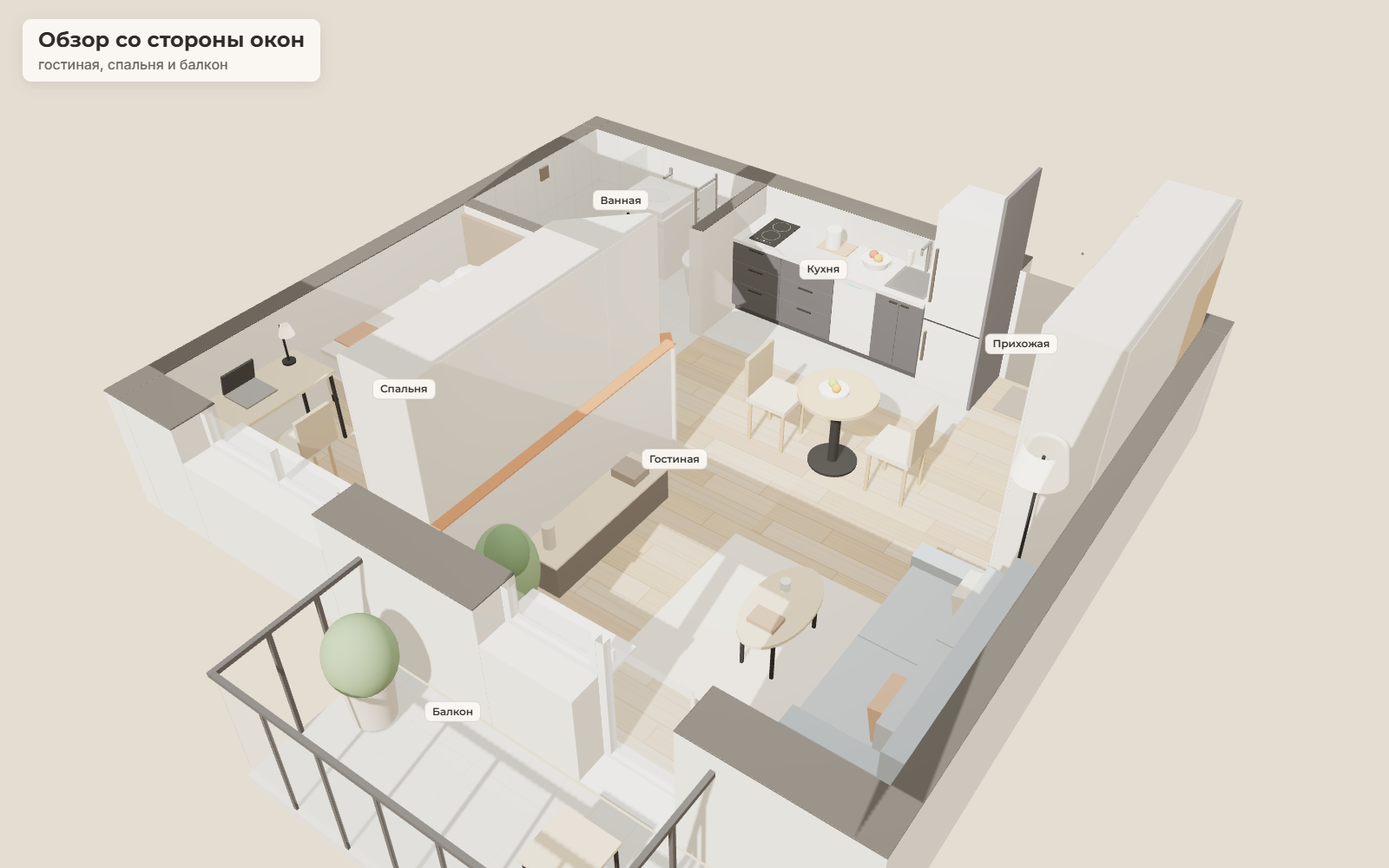
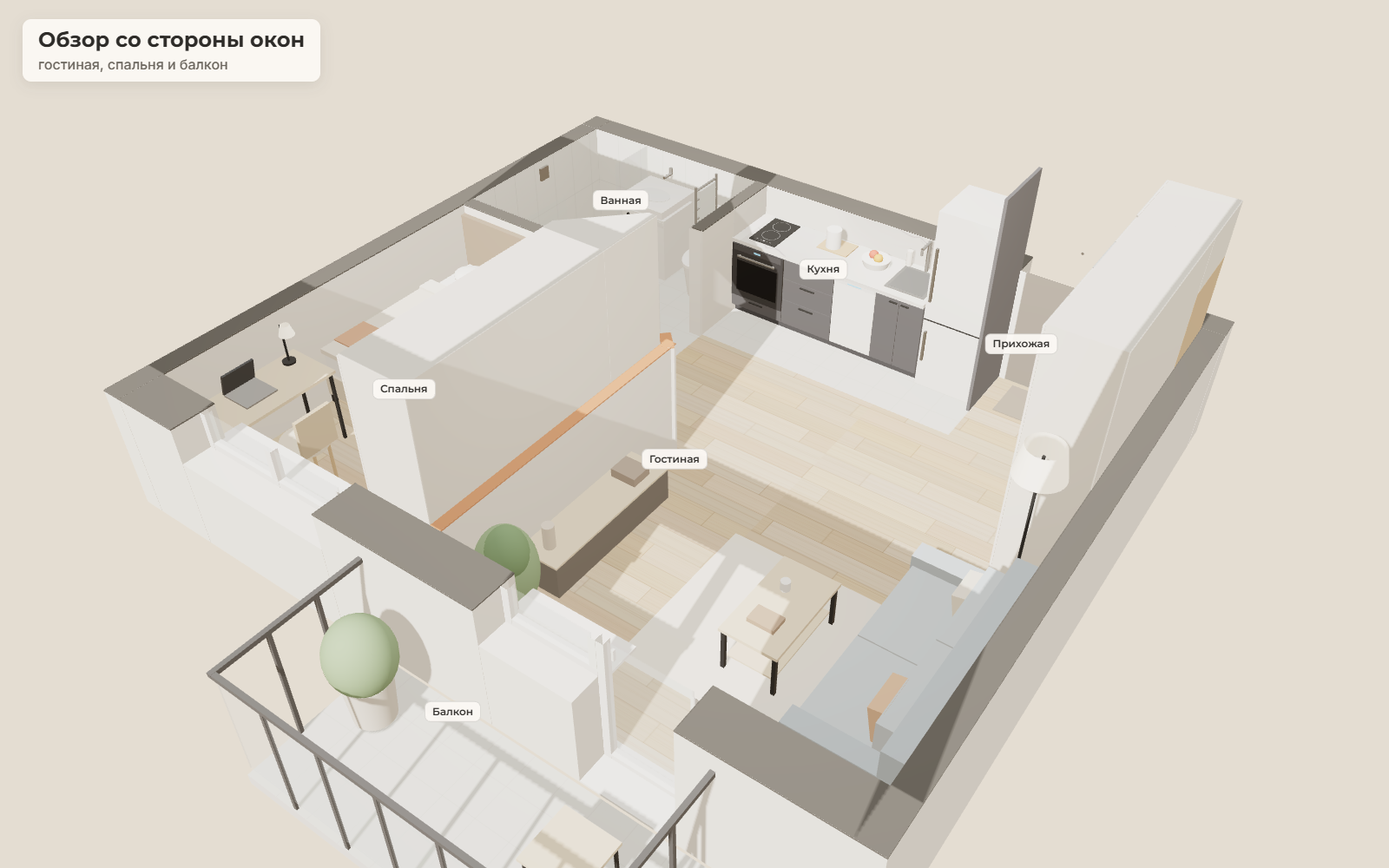
Духовка под плитой, выключатели, без обеденного стола
- Под индукцией духовой шкаф с функцией СВЧ в тумбе 60 см; розетка К7 на своей линии, вывод К3 в соседней тумбе
- Обеденный стол, стулья и светильник над ними убраны
- Журнальный столик прямоугольный, 50×90
- Розетки у кровати без USB
- Выключатели Вк1–Вк5 на плане и на развёртках, две новые развёртки: у входной двери и стена ванной со стороны кухни
- Скриншоты, плитки меню и README обновлены

diff --git a/3d.html b/3d.html
@@ -292,8 +292,10 @@ box(0.2,0.37,0.5,0.86,0.57,1.385,mat.sofa);box(0.2,0.37,0.5,0.86,1.395,2.21,mat.
 {const p1=box(0.33,0.45,0.53,0.85,0.66,1.0,M('#c98a62',0.95));p1.rotation.z=-0.18;const p2=box(0.33,0.45,0.53,0.83,1.85,2.15,M('#e3d6c0',0.95));p2.rotation.z=-0.18;}
 block(0,0.95,0.39,2.39);
 plane(1.083,2.483,0.592,2.192,0.004,mat.rug);
-cyl(1.558,0.415,1.392,0.25,0.03,mat.woodL,{sz:1.8});
-[[-0.13,-0.3],[0.13,-0.3],[-0.13,0.3],[0.13,0.3]].forEach(([dx,dz])=>cyl(1.558+dx,0.2,1.392+dz,0.016,0.4,mat.black,{seg:12}));
+// coffee table: rectangular 50x90, wood top, thin black legs, a low shelf
+box(1.308,1.808,0.40,0.43,0.947,1.837,mat.woodL);
+[[1.325,0.964],[1.761,0.964],[1.325,1.79],[1.761,1.79]].forEach(([x,z])=>box(x,x+0.032,0,0.40,z,z+0.032,mat.black));
+box(1.357,1.761,0.12,0.135,0.996,1.79,mat.woodL);
 box(1.45,1.68,0.43,0.47,1.12,1.28,M('#8c6b52',0.8));cyl(1.62,0.47,1.55,0.04,0.09,mat.ceramic);
 block(1.31,1.81,0.95,1.84);
 box(3.1,3.48,0.15,0.45,0.692,2.092,mat.tvStand,{block:true});box(3.1,3.48,0.45,0.47,0.692,2.092,mat.woodL);
@@ -304,15 +306,7 @@ blockCircle(3.2,0.3,0.2);
 cyl(0.3,0.01,2.68,0.15,0.02,mat.black);cyl(0.3,0.8,2.68,0.012,1.58,mat.black,{seg:12});cyl(0.3,1.55,2.68,0.2,0.26,mat.shade,{rt:0.15,open:true});
 blockCircle(0.3,2.68,0.16);
 
-// ---------- dining (round table Ø70 for two next to the kitchen)
-cyl(2.3,0.75,3.45,0.35,0.03,mat.wood);cyl(2.3,0.37,3.45,0.045,0.72,mat.black);cyl(2.3,0.012,3.45,0.22,0.024,mat.black);
-blockCircle(2.3,3.45,0.35);
-function chair(cx,cz,dir){box(cx-0.2,cx+0.2,0.43,0.48,cz-0.2,cz+0.2,mat.seat);
-  [[-0.17,-0.17],[0.17,-0.17],[-0.17,0.17],[0.17,0.17]].forEach(([dx,dz])=>cyl(cx+dx,0.215,cz+dz,0.017,0.43,mat.oak,{seg:12}));
-  box(cx+dir*0.2-0.02,cx+dir*0.2+0.02,0.48,0.88,cz-0.2,cz+0.2,mat.back);block(cx-0.2,cx+0.2,cz-0.2,cz+0.2);}
-chair(1.7,3.45,-1);chair(2.9,3.45,1);
-cyl(2.33,0.8,3.42,0.13,0.025,mat.ceramic);sph(2.3,0.84,3.4,0.04,0.04,0.04,M('#d9822b',0.6));sph(2.36,0.84,3.45,0.04,0.04,0.04,M('#9bb03a',0.6));
-cyl(2.3,2.17,3.45,0.004,1.06,mat.black,{p:groups.ceil,seg:6});cyl(2.3,1.58,3.45,0.2,0.2,mat.shade,{rt:0.05,open:true,p:groups.ceil});
+// dining table, chairs and pendant left out for now: the zone between the living room and the kitchen stays free
 
 // ---------- kitchen: panel, fridge, sink, dishwasher, induction hob near the bath wall
 box(1.62,1.65,0,2.2,4.8,5.5,mat.panel,{block:true});
@@ -331,7 +325,13 @@ const front=(x1,x2,y1,y2,m=mat.graph)=>box(x1+0.002,x2-0.002,y1+0.002,y2-0.002,4
 const hZ=(xc,y,l=0.16)=>box(xc-l/2,xc+l/2,y-0.006,y+0.006,4.885,4.902,mat.black);
 front(2.25,2.5,0.1,0.85);front(2.5,2.75,0.1,0.85);hZ(2.44,0.8,0.08);hZ(2.56,0.8,0.08);
 front(2.75,3.2,0.1,0.85,mat.appl);box(2.76,3.19,0.8,0.84,4.898,4.903,M('#d9d9d6',0.4));box(2.9,3.05,0.815,0.825,4.895,4.899,M('#3a8fd0',0.4,0,{emissive:'#2a6fb0',emissiveIntensity:0.6}));
-[[0.1,0.38],[0.38,0.62],[0.62,0.85]].forEach(([a,b])=>{front(3.2,3.8,a,b);hZ(3.5,b-0.035);front(3.8,4.365,a,b);hZ(4.08,b-0.035);});
+[[0.1,0.38],[0.38,0.62],[0.62,0.85]].forEach(([a,b])=>{front(3.2,3.765,a,b);hZ(3.4825,b-0.035);});
+// built-in oven with a microwave mode under the hob, 60 cm, a low drawer below it
+front(3.765,4.365,0.1,0.232);hZ(4.065,0.2);
+{const ov=M('#1f1f21',0.22,0.35),gl=M('#0b0b0c',0.08,0.5);
+ box(3.767,4.363,0.234,0.83,4.89,4.92,ov);box(3.83,4.3,0.31,0.66,4.887,4.89,gl);
+ box(3.79,4.34,0.765,0.825,4.887,4.89,M('#2b2b2e',0.3,0.3));box(4.025,4.105,0.785,0.805,4.885,4.887,M('#3a8fd0',0.4,0,{emissive:'#2a6fb0',emissiveIntensity:0.6}));
+ box(3.85,4.28,0.71,0.726,4.858,4.872,mat.steel);[3.87,4.26].forEach(x=>box(x-0.008,x+0.008,0.712,0.724,4.872,4.89,mat.steel));}
 box(2.25,4.365,0.85,0.888,4.88,5.5,mat.ctop);
 box(2.3,2.71,0.888,0.892,4.97,5.41,mat.steel);box(2.33,2.68,0.8925,0.8935,5.0,5.38,M('#8f9498',0.35,0.7));
 cyl(2.505,1.05,5.43,0.017,0.32,mat.chrome);cyl(2.505,1.2,5.35,0.014,0.16,mat.chrome,{rx:Math.PI/2});cyl(2.505,1.17,5.27,0.013,0.06,mat.chrome);
@@ -442,7 +442,7 @@ S.add(new THREE.HemisphereLight('#ffffff','#cdbda6',0.3));
 const sun=new THREE.DirectionalLight('#fff3e2',1.15);sun.position.set(2.0,7.5,-5.6);sun.target.position.set(3.3,0,2.4);S.add(sun,sun.target);
 sun.castShadow=true;sun.shadow.mapSize.set(coarse?1024:2048,coarse?1024:2048);
 Object.assign(sun.shadow.camera,{left:-6.5,right:6.5,top:6.5,bottom:-6.5,near:1,far:24});sun.shadow.bias=-0.0004;sun.shadow.normalBias=0.025;
-[[1.75,2.4,1.4,0.32,6],[2.3,1.42,3.45,0.4,3],[3.1,2.3,4.85,0.3,4],[1.0,2.3,4.3,0.25,4],[5.3,2.4,1.8,0.3,6],[5.3,2.3,4.5,0.38,4],[4.78,0.85,3.24,0.18,1.6],[2.95,1.38,5.3,0.2,1.4]]
+[[1.75,2.4,1.4,0.32,6],[3.1,2.3,4.85,0.3,4],[1.0,2.3,4.3,0.25,4],[5.3,2.4,1.8,0.3,6],[5.3,2.3,4.5,0.38,4],[4.78,0.85,3.24,0.18,1.6],[2.95,1.38,5.3,0.2,1.4]]
   .forEach(([x,y,z,i,d])=>{const l=new THREE.PointLight('#ffe9cc',i,d,2);l.position.set(x,y,z);S.add(l);});
 
 // ---------- views
@@ -450,18 +450,17 @@ const VIEWS={
   'obzor':{name:'Обзор сверху',sub:'потолок снят, вид с юго-востока',mode:'over',o:{tx:3.3,tz:2.45,theta:0.6,phi:0.88,dist:10.4}},
   'obzor-okna':{name:'Обзор со стороны окон',sub:'гостиная, спальня и балкон',mode:'over',o:{tx:3.3,tz:2.75,theta:Math.PI+0.62,phi:0.88,dist:10.4}},
   'sverhu':{name:'Сверху, как на плане',sub:'',mode:'over',o:{tx:3.29,tz:2.35,theta:0,phi:0.02,dist:13.2}},
-  'vhod':{name:'От входной двери',sub:'прихожая, гостиная и обеденная зона',mode:'walk',p:[1.1,5.12],t:[2.4,1.15,2.3]},
+  'vhod':{name:'От входной двери',sub:'прихожая, гостиная и кухня',mode:'walk',p:[1.1,5.12],t:[2.4,1.15,2.3]},
   'prihozhaya':{name:'Прихожая',sub:'ниша у входа: тумба, крючки, антресоль; шкаф на 4 дверки',mode:'walk',p:[1.55,5.3],t:[0.0,1.3,4.85],fov:80},
   'gostinaya':{name:'Гостиная',sub:'диван, журнальный стол, шкаф в прихожей',mode:'walk',p:[2.72,0.5],t:[0.5,1.0,2.7]},
-  'kuhnya':{name:'Кухня из гостиной',sub:'шкафы до потолка, дверцы открываются вверх; индукция под вытяжкой',mode:'walk',p:[1.6,2.75],t:[3.5,1.15,5.25],fov:66,flaps:{u1:0.75}},
-  'kuhnya-sboku':{name:'Кухня сбоку',sub:'от двери ванной: индукция, посудомойка, мойка, холодильник',mode:'walk',p:[4.2,3.75],t:[2.4,0.9,5.25],fov:70},
-  'stol':{name:'Обеденная зона',sub:'круглый стол Ø70 на двоих между гостиной и кухней',mode:'walk',p:[2.35,1.9],t:[2.45,0.7,4.8],fov:66},
+  'kuhnya':{name:'Кухня из гостиной',sub:'шкафы до потолка, дверцы вверх; индукция под вытяжкой, под ней духовка с СВЧ',mode:'walk',p:[1.6,2.75],t:[3.5,1.15,5.25],fov:66,flaps:{u1:0.75}},
+  'kuhnya-sboku':{name:'Кухня сбоку',sub:'от двери ванной: индукция и духовка с СВЧ, посудомойка, мойка, холодильник',mode:'walk',p:[4.2,3.75],t:[2.4,0.9,5.25],fov:70},
   'spalnya':{name:'Спальня',sub:'кровать 160×200, рабочий стол у окна',mode:'walk',p:[4.15,2.95],t:[6.1,0.85,1.2],fov:70},
   'shkaf':{name:'Шкаф в спальне',sub:'у окна заглушка 24 см: крайняя дверь открывается на 90° мимо подоконника',mode:'walk',p:[4.8,2.95],t:[4.5,0.95,0.1],fov:70,flaps:{sd0:1}},
   'polki':{name:'Полки за дверью спальни',sub:'дверь закрыта; открытая дверь встаёт вдоль полок',mode:'walk',p:[4.72,2.78],t:[3.9,1.15,2.35],fov:78,doors:{bed:0}},
   'vannaya':{name:'Ванная',sub:'дверь внутрь к стене, СМ под раковиной, душ 70×193',mode:'walk',p:[4.43,3.97],t:[6.3,0.85,4.75],fov:74},
 };
-const CHIPS=[['vhod','Вход'],['prihozhaya','Прихожая'],['gostinaya','Гостиная'],['kuhnya','Кухня'],['stol','Обеденная зона'],['spalnya','Спальня'],['shkaf','Шкаф у окна'],['polki','Полки за дверью'],['vannaya','Ванная'],['sverhu','Сверху']];
+const CHIPS=[['vhod','Вход'],['prihozhaya','Прихожая'],['gostinaya','Гостиная'],['kuhnya','Кухня'],['spalnya','Спальня'],['shkaf','Шкаф у окна'],['polki','Полки за дверью'],['vannaya','Ванная'],['sverhu','Сверху']];
 const LABELS=[['Гостиная',2.55,1.3,1.45],['Кухня',3.0,1.3,4.3],['Прихожая',1.1,1.3,4.25],['Спальня',4.75,1.3,0.9],['Ванная',5.25,1.3,4.25],['Балкон',2.4,1.1,-1.0]];
 
 const st={mode:'over',cut:true,o:Object.assign({},VIEWS.obzor.o),pos:{x:1.1,z:5.1},yaw:0,pitch:0,keys:{},target:null,current:'obzor'};

diff --git a/plan.html b/plan.html
@@ -283,8 +283,10 @@ box(0.2,0.37,0.5,0.86,0.57,1.385,mat.sofa);box(0.2,0.37,0.5,0.86,1.395,2.21,mat.
 {const p1=box(0.33,0.45,0.53,0.85,0.66,1.0,M('#c98a62',0.95));p1.rotation.z=-0.18;const p2=box(0.33,0.45,0.53,0.83,1.85,2.15,M('#e3d6c0',0.95));p2.rotation.z=-0.18;}
 block(0,0.95,0.39,2.39);
 plane(1.083,2.483,0.592,2.192,0.004,mat.rug);
-cyl(1.558,0.415,1.392,0.25,0.03,mat.woodL,{sz:1.8});
-[[-0.13,-0.3],[0.13,-0.3],[-0.13,0.3],[0.13,0.3]].forEach(([dx,dz])=>cyl(1.558+dx,0.2,1.392+dz,0.016,0.4,mat.black,{seg:12}));
+// coffee table: rectangular 50x90, wood top, thin black legs, a low shelf
+box(1.308,1.808,0.40,0.43,0.947,1.837,mat.woodL);
+[[1.325,0.964],[1.761,0.964],[1.325,1.79],[1.761,1.79]].forEach(([x,z])=>box(x,x+0.032,0,0.40,z,z+0.032,mat.black));
+box(1.357,1.761,0.12,0.135,0.996,1.79,mat.woodL);
 box(1.45,1.68,0.43,0.47,1.12,1.28,M('#8c6b52',0.8));cyl(1.62,0.47,1.55,0.04,0.09,mat.ceramic);
 block(1.31,1.81,0.95,1.84);
 box(3.1,3.48,0.15,0.45,0.692,2.092,mat.tvStand,{block:true});box(3.1,3.48,0.45,0.47,0.692,2.092,mat.woodL);
@@ -295,15 +297,7 @@ blockCircle(3.2,0.3,0.2);
 cyl(0.3,0.01,2.68,0.15,0.02,mat.black);cyl(0.3,0.8,2.68,0.012,1.58,mat.black,{seg:12});cyl(0.3,1.55,2.68,0.2,0.26,mat.shade,{rt:0.15,open:true});
 blockCircle(0.3,2.68,0.16);
 
-// ---------- dining (round table Ø70 for two next to the kitchen)
-cyl(2.3,0.75,3.45,0.35,0.03,mat.wood);cyl(2.3,0.37,3.45,0.045,0.72,mat.black);cyl(2.3,0.012,3.45,0.22,0.024,mat.black);
-blockCircle(2.3,3.45,0.35);
-function chair(cx,cz,dir){box(cx-0.2,cx+0.2,0.43,0.48,cz-0.2,cz+0.2,mat.seat);
-  [[-0.17,-0.17],[0.17,-0.17],[-0.17,0.17],[0.17,0.17]].forEach(([dx,dz])=>cyl(cx+dx,0.215,cz+dz,0.017,0.43,mat.oak,{seg:12}));
-  box(cx+dir*0.2-0.02,cx+dir*0.2+0.02,0.48,0.88,cz-0.2,cz+0.2,mat.back);block(cx-0.2,cx+0.2,cz-0.2,cz+0.2);}
-chair(1.7,3.45,-1);chair(2.9,3.45,1);
-cyl(2.33,0.8,3.42,0.13,0.025,mat.ceramic);sph(2.3,0.84,3.4,0.04,0.04,0.04,M('#d9822b',0.6));sph(2.36,0.84,3.45,0.04,0.04,0.04,M('#9bb03a',0.6));
-cyl(2.3,2.17,3.45,0.004,1.06,mat.black,{p:groups.ceil,seg:6});cyl(2.3,1.58,3.45,0.2,0.2,mat.shade,{rt:0.05,open:true,p:groups.ceil});
+// dining table, chairs and pendant left out for now: the zone between the living room and the kitchen stays free
 
 // ---------- kitchen: panel, fridge, sink, dishwasher, induction hob near the bath wall
 box(1.62,1.65,0,2.2,4.8,5.5,mat.panel,{block:true});
@@ -322,7 +316,13 @@ const front=(x1,x2,y1,y2,m=mat.graph)=>box(x1+0.002,x2-0.002,y1+0.002,y2-0.002,4
 const hZ=(xc,y,l=0.16)=>box(xc-l/2,xc+l/2,y-0.006,y+0.006,4.885,4.902,mat.black);
 front(2.25,2.5,0.1,0.85);front(2.5,2.75,0.1,0.85);hZ(2.44,0.8,0.08);hZ(2.56,0.8,0.08);
 front(2.75,3.2,0.1,0.85,mat.appl);box(2.76,3.19,0.8,0.84,4.898,4.903,M('#d9d9d6',0.4));box(2.9,3.05,0.815,0.825,4.895,4.899,M('#3a8fd0',0.4,0,{emissive:'#2a6fb0',emissiveIntensity:0.6}));
-[[0.1,0.38],[0.38,0.62],[0.62,0.85]].forEach(([a,b])=>{front(3.2,3.8,a,b);hZ(3.5,b-0.035);front(3.8,4.365,a,b);hZ(4.08,b-0.035);});
+[[0.1,0.38],[0.38,0.62],[0.62,0.85]].forEach(([a,b])=>{front(3.2,3.765,a,b);hZ(3.4825,b-0.035);});
+// built-in oven with a microwave mode under the hob, 60 cm, a low drawer below it
+front(3.765,4.365,0.1,0.232);hZ(4.065,0.2);
+{const ov=M('#1f1f21',0.22,0.35),gl=M('#0b0b0c',0.08,0.5);
+ box(3.767,4.363,0.234,0.83,4.89,4.92,ov);box(3.83,4.3,0.31,0.66,4.887,4.89,gl);
+ box(3.79,4.34,0.765,0.825,4.887,4.89,M('#2b2b2e',0.3,0.3));box(4.025,4.105,0.785,0.805,4.885,4.887,M('#3a8fd0',0.4,0,{emissive:'#2a6fb0',emissiveIntensity:0.6}));
+ box(3.85,4.28,0.71,0.726,4.858,4.872,mat.steel);[3.87,4.26].forEach(x=>box(x-0.008,x+0.008,0.712,0.724,4.872,4.89,mat.steel));}
 box(2.25,4.365,0.85,0.888,4.88,5.5,mat.ctop);
 box(2.3,2.71,0.888,0.892,4.97,5.41,mat.steel);box(2.33,2.68,0.8925,0.8935,5.0,5.38,M('#8f9498',0.35,0.7));
 cyl(2.505,1.05,5.43,0.017,0.32,mat.chrome);cyl(2.505,1.2,5.35,0.014,0.16,mat.chrome,{rx:Math.PI/2});cyl(2.505,1.17,5.27,0.013,0.06,mat.chrome);
@@ -433,7 +433,7 @@ S.add(new THREE.HemisphereLight('#ffffff','#cdbda6',0.3));
 const sun=new THREE.DirectionalLight('#fff3e2',1.15);sun.position.set(2.0,7.5,-5.6);sun.target.position.set(3.3,0,2.4);S.add(sun,sun.target);
 sun.castShadow=true;sun.shadow.mapSize.set(coarse?1024:2048,coarse?1024:2048);
 Object.assign(sun.shadow.camera,{left:-6.5,right:6.5,top:6.5,bottom:-6.5,near:1,far:24});sun.shadow.bias=-0.0004;sun.shadow.normalBias=0.025;
-[[1.75,2.4,1.4,0.32,6],[2.3,1.42,3.45,0.4,3],[3.1,2.3,4.85,0.3,4],[1.0,2.3,4.3,0.25,4],[5.3,2.4,1.8,0.3,6],[5.3,2.3,4.5,0.38,4],[4.78,0.85,3.24,0.18,1.6],[2.95,1.38,5.3,0.2,1.4]]
+[[1.75,2.4,1.4,0.32,6],[3.1,2.3,4.85,0.3,4],[1.0,2.3,4.3,0.25,4],[5.3,2.4,1.8,0.3,6],[5.3,2.3,4.5,0.38,4],[4.78,0.85,3.24,0.18,1.6],[2.95,1.38,5.3,0.2,1.4]]
   .forEach(([x,y,z,i,d])=>{const l=new THREE.PointLight('#ffe9cc',i,d,2);l.position.set(x,y,z);S.add(l);});
 
 

diff --git a/electric.html b/electric.html
@@ -3,8 +3,8 @@
 <head>
 <meta charset="utf-8">
 <meta name="viewport" content="width=device-width, initial-scale=1">
-<meta name="description" content="Где будут розетки в квартире 36,73 м², на какой высоте, и какие линии в щитке.">
-<title>Электрика · розетки</title>
+<meta name="description" content="Где будут розетки и выключатели в квартире 36,73 м², на какой высоте, и какие линии в щитке.">
+<title>Электрика · розетки и выключатели</title>
 <link rel="stylesheet" href="https://fonts.googleapis.com/css2?family=Inter:wght@400;500;600&family=Montserrat:wght@600;700&display=swap">
 <style>
 :root{
@@ -34,12 +34,12 @@ section p{margin:0 0 12px;color:var(--muted);font-size:14px}
 <main>
 <a class="back" href="./">← Меню</a>
 <h1>Электрика</h1>
-<p class="lead">27 розеток, 3 вывода под технику и щиток в шкафу прихожей. Номера на плане и на развёртках стен совпадают. Нажмите на картинку, чтобы открыть её в полном размере.</p>
-<nav class="tabs" aria-label="Разделы"><a href="#plan">План розеток</a><a href="#steny">Розетки на стенах</a><a href="3d.html#obzor">3D-модель</a></nav>
-<section id="plan"><h2>Где будут розетки</h2><p>На значке — номер точки, в плашке — сколько розеток в блоке и высота от пола в сантиметрах.</p>
-<a class="board" href="electric/rozetki.png"><img src="electric/rozetki.png" width="1080" height="2030" alt="План квартиры с розетками: номер точки, число розеток в блоке и высота от пола; ниже таблица по комнатам и линии в щитке" decoding="async"></a></section>
-<section id="steny"><h2>Розетки на стенах</h2><p>Развёртки стен, вид из комнаты. Размеры в миллиметрах: высота от чистого пола до центра и расстояние от угла.</p>
-<a class="board" href="electric/steny.png"><img src="electric/steny.png" width="1080" height="2216" alt="Развёртки девяти стен с розетками, мебелью и размерами в миллиметрах" loading="lazy" decoding="async"></a></section>
+<p class="lead">28 розеток, 3 вывода под технику, 5 выключателей и щиток в шкафу прихожей. Номера на плане и на развёртках стен совпадают. Нажмите на картинку, чтобы открыть её в полном размере.</p>
+<nav class="tabs" aria-label="Разделы"><a href="#plan">План</a><a href="#steny">На стенах</a><a href="3d.html#obzor">3D-модель</a></nav>
+<section id="plan"><h2>Где будут розетки и выключатели</h2><p>На значке — номер точки, в плашке — сколько розеток в блоке или клавиш у выключателя и высота от пола в сантиметрах.</p>
+<a class="board" href="electric/rozetki.png"><img src="electric/rozetki.png" width="1080" height="2170" alt="План квартиры с розетками и выключателями: номер точки, число розеток или клавиш и высота от пола; ниже таблица по комнатам и линии в щитке" decoding="async"></a></section>
+<section id="steny"><h2>Розетки и выключатели на стенах</h2><p>Развёртки стен, вид из комнаты. Размеры в миллиметрах: высота от чистого пола до центра и расстояние от угла.</p>
+<a class="board" href="electric/steny.png"><img src="electric/steny.png" width="1080" height="2620" alt="Развёртки одиннадцати стен с розетками, выключателями, мебелью и размерами в миллиметрах" loading="lazy" decoding="async"></a></section>
 </main>
 </body>
 </html>

diff --git a/index.html b/index.html
@@ -46,10 +46,10 @@ footer{margin-top:36px;color:var(--muted);font-size:13px}
 <a class="tile" href="3d.html#obzor"><img src="thumbs/3d.jpg" width="800" height="500" alt="Квартира в 3D сверху, стены срезаны"><span class="t"><h2>3D-модель</h2><p>Вся квартира сверху: крутите, приближайте, нажмите на пол — окажетесь внутри.</p><span class="go">Открыть 3D →</span></span></a>
 <a class="tile" href="3d.html#vhod"><img src="thumbs/walk.jpg" width="800" height="500" alt="Вид от входной двери на прихожую и гостиную"><span class="t"><h2>Прогулка по комнатам</h2><p>Вид от входной двери. Ходите по квартире, открывайте двери и шкафы.</p><span class="go">Войти →</span></span></a>
 <a class="tile" href="plan.html"><img src="thumbs/plan.jpg" width="800" height="500" alt="План квартиры сверху с подписями комнат"><span class="t"><h2>План сверху</h2><p>Чертёж с площадями комнат и общими размерами, стены срезаны на 1,2 м.</p><span class="go">Открыть план →</span></span></a>
-<a class="tile" href="electric.html"><img src="thumbs/electric.jpg" width="800" height="500" alt="План квартиры с отмеченными розетками"><span class="t"><h2>Электрика</h2><p>Где розетки и на какой высоте, развёртки стен, линии в щитке.</p><span class="go">Смотреть розетки →</span></span></a>
+<a class="tile" href="electric.html"><img src="thumbs/electric.jpg" width="800" height="500" alt="План квартиры с отмеченными розетками и выключателями"><span class="t"><h2>Электрика</h2><p>Розетки и выключатели: где и на какой высоте, развёртки стен, линии в щитке.</p><span class="go">Смотреть электрику →</span></span></a>
 </nav>
 <h2 class="sec">Сразу в комнату</h2>
-<ul class="rooms"><li><a href="3d.html#prihozhaya">Прихожая</a></li><li><a href="3d.html#gostinaya">Гостиная</a></li><li><a href="3d.html#kuhnya">Кухня</a></li><li><a href="3d.html#stol">Обеденная зона</a></li><li><a href="3d.html#spalnya">Спальня</a></li><li><a href="3d.html#shkaf">Шкаф в спальне</a></li><li><a href="3d.html#polki">Полки за дверью</a></li><li><a href="3d.html#vannaya">Ванная</a></li></ul>
+<ul class="rooms"><li><a href="3d.html#prihozhaya">Прихожая</a></li><li><a href="3d.html#gostinaya">Гостиная</a></li><li><a href="3d.html#kuhnya">Кухня</a></li><li><a href="3d.html#spalnya">Спальня</a></li><li><a href="3d.html#shkaf">Шкаф в спальне</a></li><li><a href="3d.html#polki">Полки за дверью</a></li><li><a href="3d.html#vannaya">Ванная</a></li></ul>
 <footer>Мебель условная: размеры и места по плану, без конкретных моделей. Схема электрики — ориентир для электрика.</footer>
 </main>
 </body>

diff --git a/README.md b/README.md
@@ -8,7 +8,7 @@
 |---|---|
 | [3D-модель](https://artsiomdziominski.github.io/apartment-3d/3d.html) | обзор сверху и прогулка по комнатам; двери и дверцы шкафов открываются по нажатию |
 | [План сверху](https://artsiomdziominski.github.io/apartment-3d/plan.html) | та же модель строго сверху: стены в разрезе на 1,2 м, площади комнат и общие размеры |
-| [Электрика](https://artsiomdziominski.github.io/apartment-3d/electric.html) | где будут розетки, на какой высоте, развёртки стен и линии в щитке |
+| [Электрика](https://artsiomdziominski.github.io/apartment-3d/electric.html) | где будут розетки и выключатели, на какой высоте, развёртки стен и линии в щитке |
 
 ## Управление
 
@@ -19,12 +19,12 @@
 | **Двери и шкафы** | Нажмите на дверь спальни или ванной, на дверцу шкафа или кухонного шкафчика — откроется или закроется. Кухонные дверцы поднимаются вверх. |
 | **План** | Кнопка «План» внизу 3D-страницы. Тяните — сдвиг; колесо или два пальца — масштаб; двойной клик — вписать. «Подписи» скрывают названия комнат и размеры. |
 
-Внизу 3D-страницы есть быстрые точки: Вход, Прихожая, Гостиная, Кухня, Обеденная зона, Спальня, Шкаф у окна, Полки за дверью, Ванная, Сверху. Каждую можно открыть сразу по ссылке, например `3d.html#kuhnya` или `3d.html#spalnya`.
+Внизу 3D-страницы есть быстрые точки: Вход, Прихожая, Гостиная, Кухня, Спальня, Шкаф у окна, Полки за дверью, Ванная, Сверху. Каждую можно открыть сразу по ссылке, например `3d.html#kuhnya` или `3d.html#spalnya`.
 
 ## Что в планировке
 
-- Прямая кухня вдоль стены: холодильник, мойка, посудомойка 45 см, индукционная панель на 2 конфорки по центру встроенной вытяжки. Верхние шкафы до потолка в два яруса, дверцы открываются вверх; у входа мебельная панель.
-- Круглый стол Ø70 на двоих между гостиной и кухней.
+- Прямая кухня вдоль стены: холодильник, мойка, посудомойка 45 см, индукционная панель на 2 конфорки по центру встроенной вытяжки, под ней духовка с функцией СВЧ (тумба 60 см). Верхние шкафы до потолка в два яруса, дверцы открываются вверх; у входа мебельная панель.
+- Между гостиной и кухней пока свободно: обеденный стол, стулья и светильник над ними подберём позже.
 - Прихожая: у входа слева открытая ниша 70 см — внизу тумба, выше крючки, наверху антресоль. Дальше шкаф 60×180 на четыре дверки, третья с зеркалом; в секции у ниши — щиток с автоматами.
 - Спальня: шкаф 60×200. У окна неподвижная заглушка 24 см, потому что подоконник выступает на 20 см: так крайняя дверь открывается на 90° мимо него. Двери 38+38 и 50+50 см. Дверь в спальню открывается к шкафу, за ней полки со срезом под 45°.
 - Ванная: дверь открывается внутрь к стене, стиральная машина под раковиной, душ 70×193.
@@ -33,11 +33,11 @@
 
 ## Электрика
 
-27 розеток, 3 вывода (индукционная панель, подсветка столешницы, полотенцесушитель) и щиток в шкафу прихожей. Номера на плане и на развёртках совпадают. Схема — ориентир: сечения, автоматы и УЗО окончательно подбирает электрик.
+28 розеток, 3 вывода (индукционная панель, подсветка столешницы, полотенцесушитель), 5 выключателей и щиток в шкафу прихожей. Выключатели на высоте 90 см: у входной двери — прихожая и кухня, у шкафа — гостиная, у двери ванной — свет и зеркало, в спальне пара проходных у двери и у кровати. Номера на плане и на развёртках совпадают. Схема — ориентир: сечения, автоматы и УЗО окончательно подбирает электрик.
 
-![Где будут розетки](electric/rozetki.png)
+![Где будут розетки и выключатели](electric/rozetki.png)
 
-![Розетки на стенах](electric/steny.png)
+![Розетки и выключатели на стенах](electric/steny.png)
 
 ## План
 
@@ -55,8 +55,7 @@
 | ![Сверху, как на плане](screenshots/03-sverhu.png) Сверху, как на плане | ![От входной двери](screenshots/04-ot-vhoda.png) От входной двери |
 | ![Прихожая](screenshots/12-prihozhaya.png) Прихожая: ниша у входа | ![Гостиная](screenshots/05-gostinaya.png) Гостиная |
 | ![Кухня из гостиной](screenshots/06-kuhnya.png) Кухня из гостиной | ![Кухня сбоку](screenshots/07-kuhnya-sboku.png) Кухня сбоку |
-| ![Обеденная зона](screenshots/08-obedennaya-zona.png) Обеденная зона | ![Спальня](screenshots/09-spalnya.png) Спальня |
-| ![Шкаф в спальне](screenshots/13-shkaf-v-spalne.png) Шкаф в спальне: дверь мимо подоконника | ![Полки за дверью спальни](screenshots/10-polki-za-dveryu.png) Полки за дверью спальни |
-| ![Ванная](screenshots/11-vannaya.png) Ванная | |
+| ![Спальня](screenshots/09-spalnya.png) Спальня | ![Шкаф в спальне](screenshots/13-shkaf-v-spalne.png) Шкаф в спальне: дверь мимо подоконника |
+| ![Полки за дверью спальни](screenshots/10-polki-za-dveryu.png) Полки за дверью спальни | ![Ванная](screenshots/11-vannaya.png) Ванная |
 
 Модель сделана на [three.js](https://threejs.org/) r128, библиотека подключается с cdnjs.
